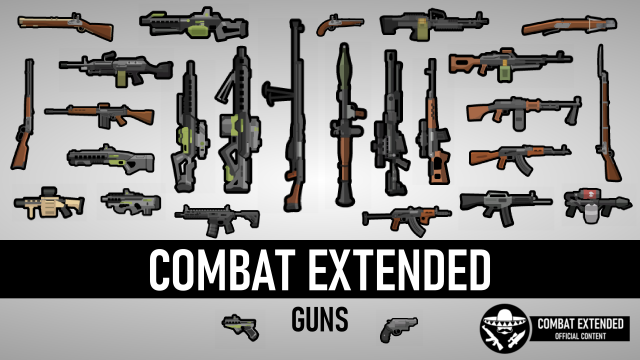
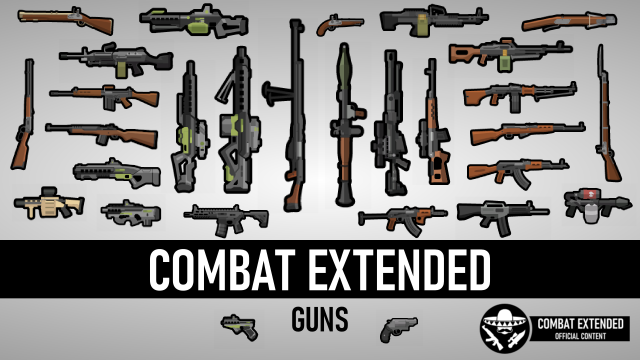
Added Ruger Mini-14

Changed region(s): [[0.5625, 0.0, 0.9688, 0.6722], [0.0, 0.0, 0.4375, 0.6722], [0.3438, 0.8556, 0.4062, 0.9472]]

diff --git a/README.md b/README.md
@@ -14,6 +14,7 @@ This mod adds several new firearms designed to take advantage of new CE mechanic
 - S-12 charge shotgun
 ### Assault/battle rifles
 - Winchester 94
+- Ruger Mini-14
 - SKS
 - SIG MCX
 - AKMS-U
